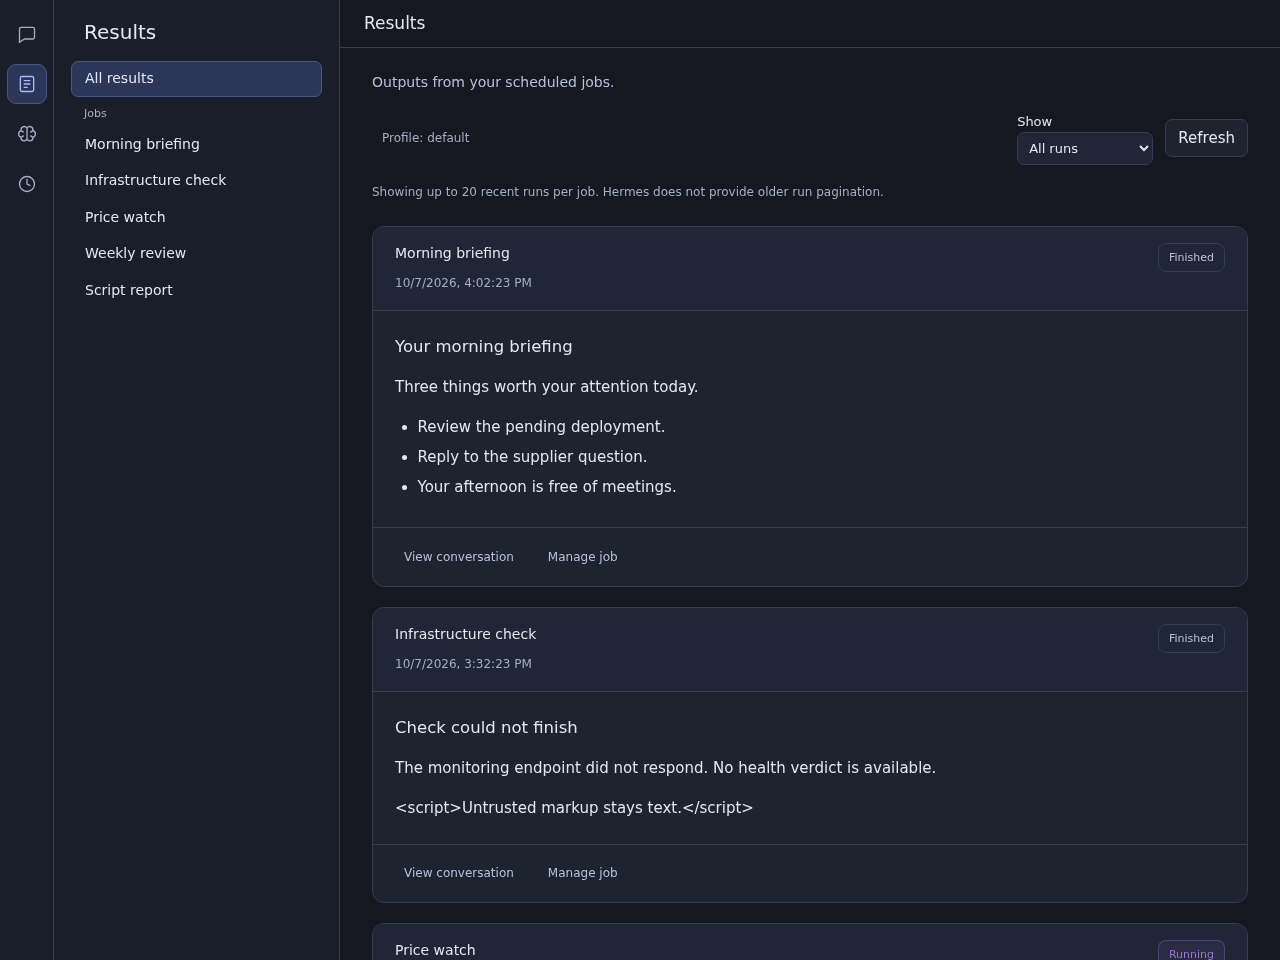
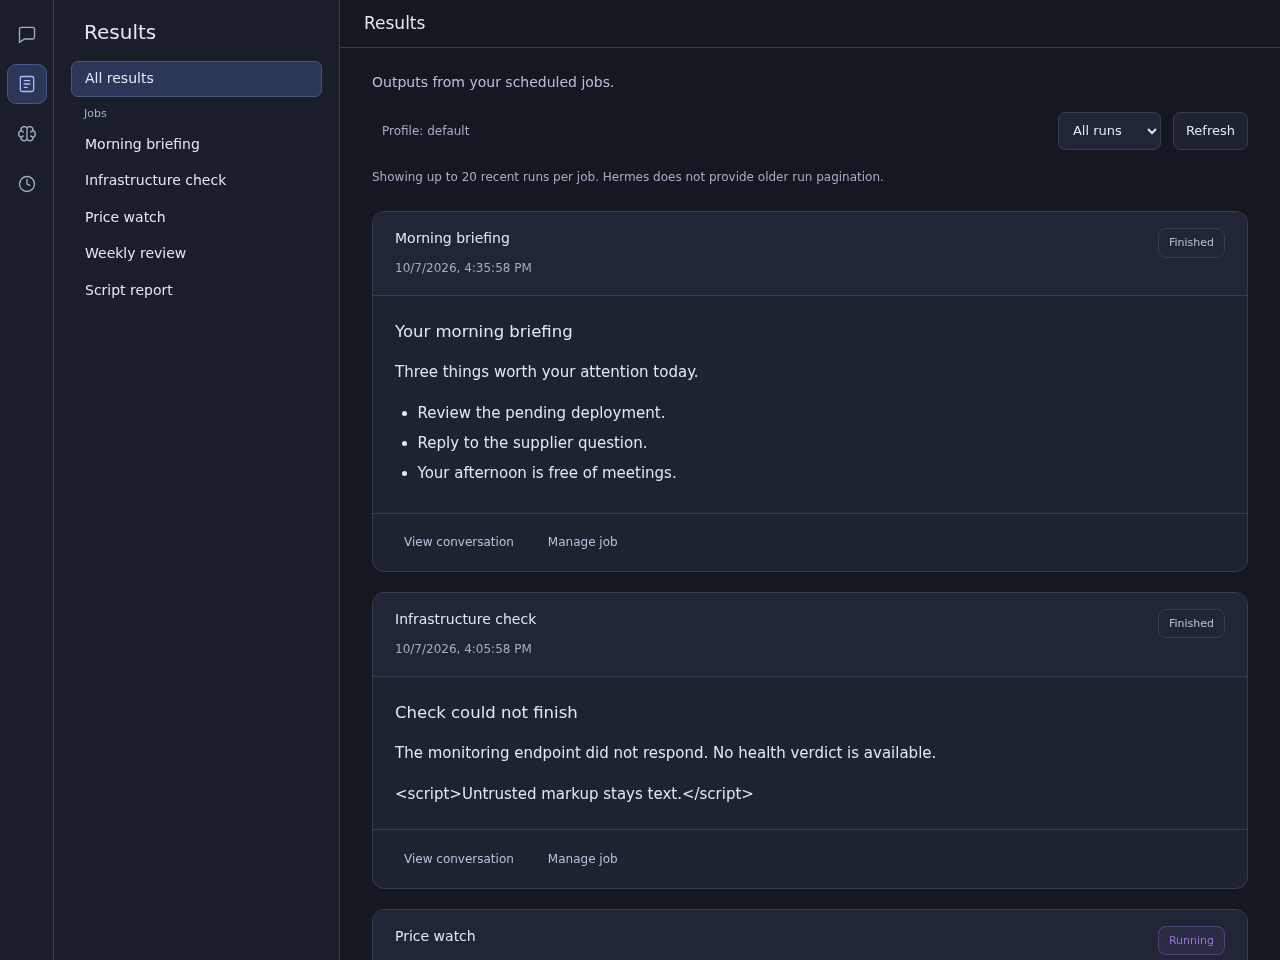
fix: align results toolbar controls

diff --git a/src/ResultsView.vue b/src/ResultsView.vue
@@ -127,7 +127,7 @@ onBeforeUnmount(() => { generation++; clearInterval(timer) })
   <section class="results-view" aria-label="Results">
     <div class="results-width">
       <p class="results-description">Outputs from your scheduled jobs.</p>
-      <div class="results-toolbar"><span class="muted">{{ profile ? `Profile: ${profile}` : '' }}</span><label>Show <select v-model="status" aria-label="Run status"><option>All runs</option><option>Running</option><option>Finished</option><option>Unknown</option></select></label><button :disabled="loading || !connected" @click="refresh">Refresh</button></div>
+      <div class="results-toolbar"><span class="muted">{{ profile ? `Profile: ${profile}` : '' }}</span><div class="results-controls"><select v-model="status" aria-label="Run status"><option>All runs</option><option>Running</option><option>Finished</option><option>Unknown</option></select><button :disabled="loading || !connected" @click="refresh">Refresh</button></div></div>
       <p class="results-limit">Showing up to {{ limit }} recent runs per job. Hermes does not provide older run pagination.</p>
       <p v-if="!connected" role="status">Connect to Hermes to load results.</p>
       <p v-if="loading" role="status">Loading results…</p>
@@ -162,8 +162,9 @@ onBeforeUnmount(() => { generation++; clearInterval(timer) })
 .results-description { margin: 0 0 18px; font-size: 14px; color: var(--secondary-text); }
 .results-toolbar { display: flex; align-items: center; gap: 12px; flex-wrap: wrap; }
 .results-toolbar > span { margin-right: auto; font-size: 12px; }
-.results-toolbar label { font-size: 13px; }
-.results-toolbar select { background: var(--panel); color: var(--text); border: 1px solid var(--border); border-radius: 7px; padding: 7px; }
+.results-controls { display: flex; align-items: center; gap: 12px; }
+.results-controls select, .results-controls button { box-sizing: border-box; height: 38px; font-size: 13px; line-height: 1.4; }
+.results-controls select { width: auto; background: var(--panel); color: var(--text); border: 1px solid var(--border); border-radius: 7px; padding: 7px 10px; }
 .results-limit { font-size: 12px; color: var(--muted); line-height: 1.6; margin: 18px 0 24px; }
 .result-card { border: 1px solid var(--border); border-radius: 12px; background: var(--surface); margin-bottom: 20px; overflow-wrap: anywhere; overflow: hidden; }
 .result-card header { display: flex; justify-content: space-between; align-items: flex-start; gap: 12px; padding: 16px 22px; border-bottom: 1px solid var(--border); background: var(--panel); }
